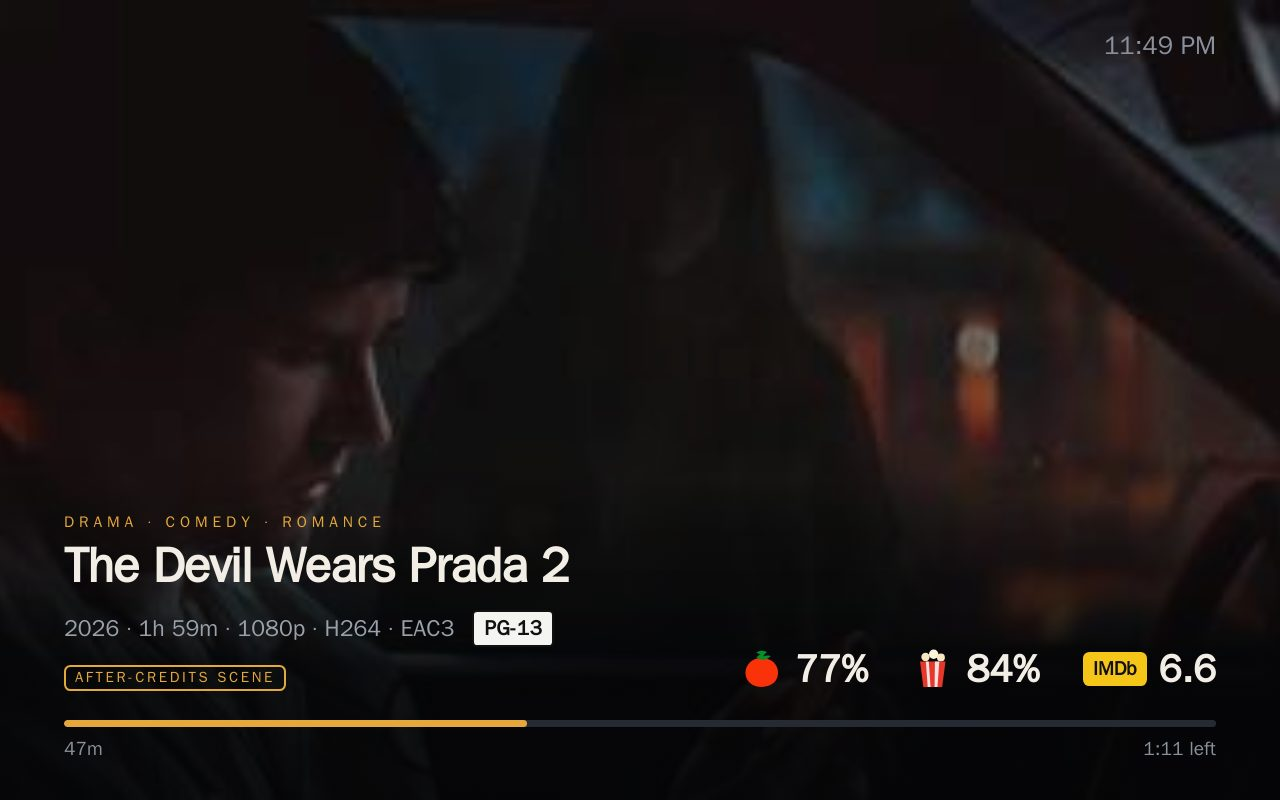
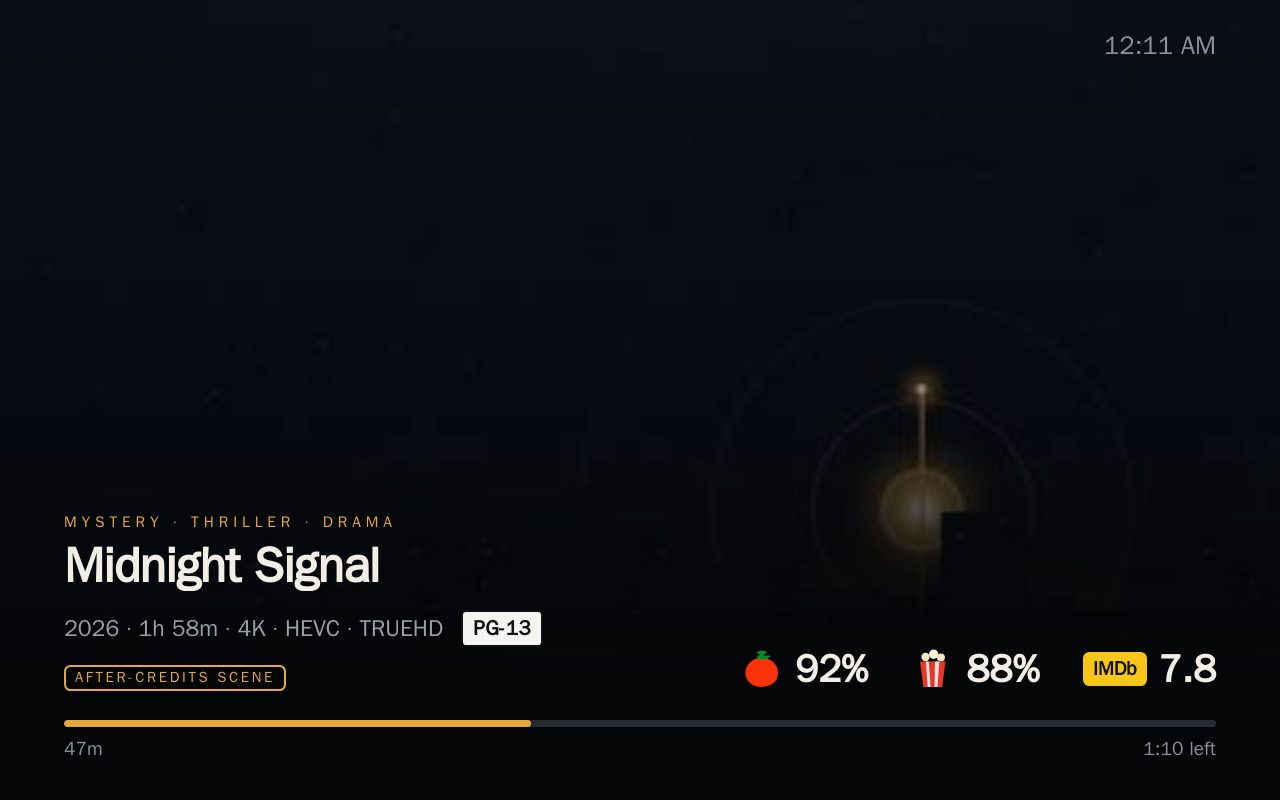
Replace demo movie with an original fiction, Midnight Signal
The demo card mixed real-movie metadata with unrelated poster art grabbed
from the last local playback. Marquee now ships its own fictional film —
Midnight Signal, an original one-sheet and backdrop designed for the demo —
so the preview is always coherent and never shows copyrighted art.
Screenshots, README gallery, and the landing page are regenerated to match.

diff --git a/output/index.html b/output/index.html
@@ -262,15 +262,17 @@
     return c;
   }
 
[4 lines of base64/hex data omitted]
+  // Demo movie is an original fiction made for Marquee — art lives in-repo,
+  // so the demo never shows copyrighted posters or mismatched metadata.
   const DEMO_DATA = { playing: true, type: 'movie', key: 'demo',
-    title: 'The Devil Wears Prada 2', year: '2026',
-    summary: 'Andy Sachs returns to Runway as Miranda Priestly navigates a new media landscape. The duo reconnect with former assistant Emily Charlton, now the head of a luxury brand whose funding could ensure Runway’s survival.',
-    genres: ['Drama', 'Comedy', 'Romance'], contentRating: 'PG-13',
-    runtime: '1h 59m', media: '1080p · H264 · EAC3',
-    scores: { rtCritic: 77, rtCriticFresh: true, rtAudience: 84, rtAudienceFresh: true, imdb: 6.6 },
-    progress: { offsetMs: 2868000, durationMs: 7141120 }, state: 'playing',
+    title: 'Midnight Signal', year: '2026',
+    summary: 'A late-night radio host picks up a transmission that predicts the city’s blackouts before they happen. As the signal grows clearer, she realizes it is counting down — and that she may be the only one listening.',
+    genres: ['Mystery', 'Thriller', 'Drama'], contentRating: 'PG-13',
+    runtime: '1h 58m', media: '4K · HEVC · TRUEHD',
+    scores: { rtCritic: 92, rtCriticFresh: true, rtAudience: 88, rtAudienceFresh: true, imdb: 7.8 },
+    progress: { offsetMs: 2868000, durationMs: 7080000 }, state: 'playing',
     stinger: ['after'], poster: true, backdrop: true, logo: false };
 
   const TOMATO_FRESH = `<svg viewBox="0 0 24 24"><path fill="#FA320A" d="M12 6c5.2 0 9 3.5 9 8.2S17.2 22 12 22s-9-3.1-9-7.8S6.8 6 12 6z"/><path fill="#00912D" d="M12 2c1.7 0 2.9.8 2.9.8s-1.3 1-2 2.3C15 4.3 17 5 17 5s-1.7 1.9-4.1 2c-2.4.1-3.9-1.2-3.9-1.2s.9-1.2 2.3-1.7C9.9 3.7 9 3.1 9 3.1S10.3 2 12 2z"/></svg>`;
